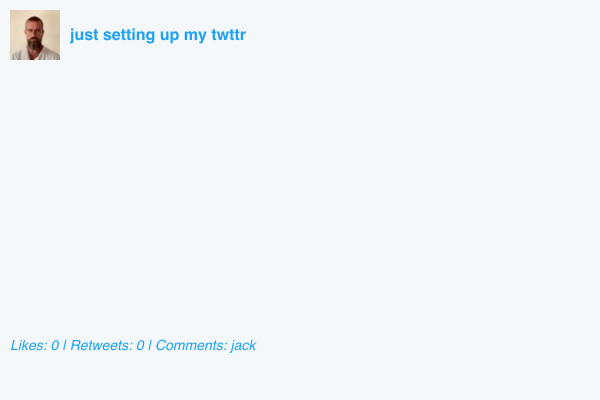
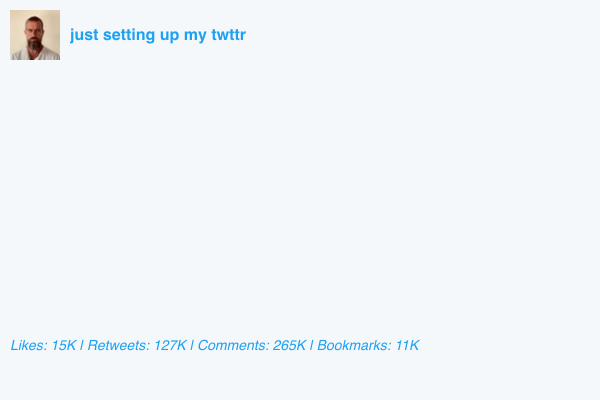
add support for reminder & improved screenshot

Changed region(s): [[0.09, 0.84, 0.69, 0.9]]

diff --git a/packages/screenshot/screenshot.js b/packages/screenshot/screenshot.js
@@ -2,11 +2,12 @@ const puppeteer = require('puppeteer-extra');
 const StealthPlugin = require('puppeteer-extra-plugin-stealth');
 const login = require('../../twitter-scrapper/login'); // Adjust path if needed
 const path = require('path');
-require('dotenv').config({ path: path.resolve(__dirname, '../../.env') }); // Adjust path if needed
+require('dotenv').config({ path: path.resolve(__dirname, '../../.env') });
 
-const { createCanvas, loadImage } = require('canvas'); // For generating tweet image
+const { createCanvas, loadImage } = require('canvas');
+const fs = require('fs');
 
-// Load credentials from environment variables
+// Load credentials
 const username = process.env.TWITTER_USERNAME;
 const password = process.env.TWITTER_PASSWORD;
 
@@ -20,20 +21,19 @@ if (!username || !password) {
 puppeteer.use(StealthPlugin());
 
 (async () => {
-    const tweetURL = 'https://twitter.com/jack/status/20'; // Change to target tweet URL
-    const imagePath = 'tweet_image.png'; // Output path for image
+    const tweetURL = 'https://twitter.com/jack/status/20'; // Replace with target tweet
+    const imagePath = 'tweet_image.png';
 
     let browser = null;
 
     try {
         console.log("Launching browser...");
         browser = await puppeteer.launch({
-            headless: "new", // Set to false if you want to debug
+            headless: "new", // Set to false for debugging
         });
         const page = await browser.newPage();
         await page.setViewport({ width: 1366, height: 768 });
 
-        // Optional: Set a realistic User-Agent
         await page.setUserAgent(
             'Mozilla/5.0 (Windows NT 10.0; Win64; x64) AppleWebKit/537.36 ' +
             '(KHTML, like Gecko) Chrome/108.0.0.0 Safari/537.36'
@@ -41,82 +41,73 @@ puppeteer.use(StealthPlugin());
 
         // Step 1: Login
         console.log("Attempting login...");
-        await login(page, username, password); // Assuming login.js handles login
+        await login(page, username, password);
 
-        // Step 2: Navigate to the tweet URL or thread
+        // Step 2: Navigate to the tweet URL
         console.log(`Navigating to: ${tweetURL}`);
         await page.goto(tweetURL, { waitUntil: 'networkidle2', timeout: 60000 });
 
-        // Step 3: Scrape the Original Tweet (Thread)
-        const tweetSelector = 'article[data-testid="tweet"]:not([data-testid="retweet"])'; // Main tweet, excluding retweets
+        // Step 3: Wait for tweet
+        const tweetSelector = 'article[data-testid="tweet"]:not([data-testid="retweet"])';
         console.log("Waiting for original tweet to appear...");
         await page.waitForSelector(tweetSelector, { timeout: 15000 });
 
-        const tweetElement = await page.$(tweetSelector); // Get the main tweet element
+        const tweetElement = await page.$(tweetSelector);
 
         if (tweetElement) {
             const tweetData = await tweetElement.evaluate(tweetElement => {
-                // Scrape tweet text
-                const tweetText = tweetElement.querySelector('div[lang]') ? tweetElement.querySelector('div[lang]').innerText : '';
+                const tweetText = tweetElement.querySelector('div[lang]')?.innerText || '';
 
-                // Scrape engagement stats (likes, retweets, comments) from class 'css-175oi2r'
-                const engagementStats = tweetElement.querySelector('.css-175oi2r');
-                let likes = '0', retweets = '0', comments = '0';
+                let likes = '0', retweets = '0', comments = '0', bookmarks = '0';
+                const engagementBlock = tweetElement.querySelector('[aria-label*="like"]')?.innerText || '';
+                const parts = engagementBlock.split('\n');
 
-                if (engagementStats) {
-                    // Scrape individual engagement stats within the class
-                    const likeSpan = engagementStats.querySelector('div[data-testid="like"] span');
-                    const retweetSpan = engagementStats.querySelector('div[data-testid="retweet"] span');
-                    const commentSpan = engagementStats.querySelector('span.css-1jxf684');
-
-                    likes = likeSpan ? likeSpan.innerText : '0';
-                    retweets = retweetSpan ? retweetSpan.innerText : '0';
-                    comments = commentSpan ? commentSpan.innerText : '0';
+                if (parts.length >= 4) {
+                    [likes, retweets, comments, bookmarks] = parts;
                 }
 
-                // Scrape user profile image
-                const userImage = tweetElement.querySelector('img[src*="profile_images"]') ? tweetElement.querySelector('img[src*="profile_images"]').src : '';
+                const userImage = tweetElement.querySelector('img[src*="profile_images"]')?.src || '';
 
                 return {
                     tweetText,
                     likes,
                     retweets,
                     comments,
+                    bookmarks,
                     userImage
                 };
             });
 
-            // Log the scraped tweet data (optional)
             console.log("✅ Scraped tweet data:", tweetData);
 
-            // Step 4: Generate image for the tweet
+            // Step 4: Generate tweet image
             const canvasWidth = 600;
-            const canvasHeight = 400; // Adjusted height to accommodate image and text
+            const canvasHeight = 400;
             const canvas = createCanvas(canvasWidth, canvasHeight);
             const ctx = canvas.getContext('2d');
 
-            // Set background color and fonts
-            ctx.fillStyle = '#f5f8fa'; // Twitter's background color
+            ctx.fillStyle = '#f5f8fa';
             ctx.fillRect(0, 0, canvasWidth, canvasHeight);
 
-            // Load the user's profile image
+            // Draw profile image
             if (tweetData.userImage) {
                 const userImage = await loadImage(tweetData.userImage);
-                ctx.drawImage(userImage, 10, 10, 50, 50); // Draw profile image
+                ctx.drawImage(userImage, 10, 10, 50, 50);
             }
 
-            ctx.fillStyle = '#1da1f2'; // Twitter's blue for text
+            ctx.fillStyle = '#1da1f2';
             ctx.font = 'bold 16px sans-serif';
-
-            // Draw tweet text
             ctx.fillText(tweetData.tweetText, 70, 40, canvasWidth - 80);
 
-            // Draw engagement stats (likes, retweets, comments)
+            // Draw engagement stats
             ctx.font = 'italic 14px sans-serif';
-            ctx.fillText(`Likes: ${tweetData.likes} | Retweets: ${tweetData.retweets} | Comments: ${tweetData.comments}`, 10, 350);
+            ctx.fillText(
+                `Likes: ${tweetData.likes} | Retweets: ${tweetData.retweets} | Comments: ${tweetData.comments} | Bookmarks: ${tweetData.bookmarks}`,
+                10,
+                350
+            );
 
-            // Step 5: Save the image
-            const fs = require('fs');
+            // Step 5: Save image
             const out = fs.createWriteStream(imagePath);
             const stream = canvas.createPNGStream();
             stream.pipe(out);
@@ -129,12 +120,12 @@ puppeteer.use(StealthPlugin());
         }
 
     } catch (error) {
-        console.error("❌ An error occurred during the process:");
-        console.error(error.stack); // Log error details
+        console.error("❌ An error occurred:");
+        console.error(error.stack);
     } finally {
         if (browser) {
             console.log("Closing browser...");
-            await browser.close(); // Ensure to close the browser after screenshot
+            await browser.close();
             console.log("Browser closed.");
         }
     }

diff --git a/packages/reminder/reminderbot.js b/packages/reminder/reminderbot.js
@@ -1,0 +1,32 @@
+const dayjs = require('dayjs');
+const pool = require('../../config/dbconnect');
+
+async function checkReminders() {
+  const now = dayjs().toISOString();
+  const query = `
+    SELECT * FROM remindme 
+    WHERE remindmetime <= $1 AND reminded = false
+  `;
+
+  try {
+    const { rows } = await pool.query(query, [now]);
+
+    for (const row of rows) {
+      console.log(`@${row.username} Reminder for tweet ${row.tweetid} 🔔`);
+
+      await pool.query(
+        'UPDATE remindme SET reminded = true WHERE id = $1',
+        [row.id]
+      );
+    }
+  } catch (err) {
+    console.error('❌ Error checking reminders:', err);
+  }
+}
+
+function start() {
+  console.log('🔔 Reminder service started...');
+  setInterval(checkReminders, 30 * 1000);
+}
+
+start();
